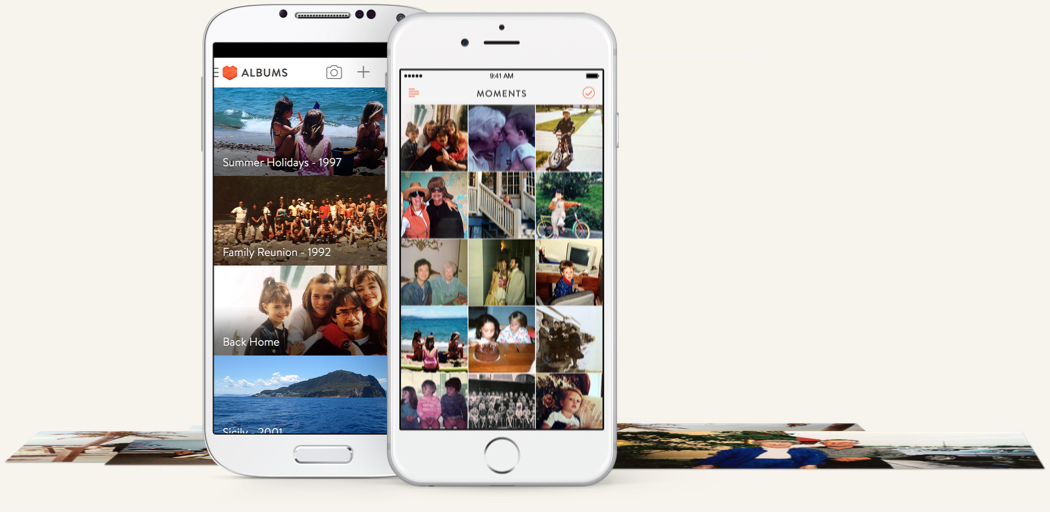
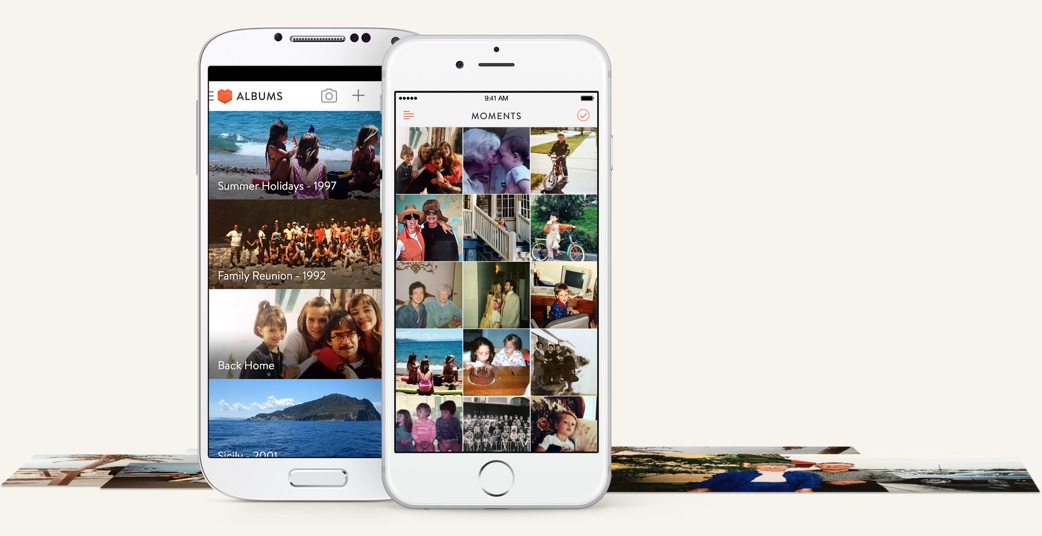
Adds new product asset and repositions slightly.

Changed region(s): [[0.0, 0.0, 1.0, 0.9669]]

diff --git a/app/styles/_homepage.scss b/app/styles/_homepage.scss
@@ -141,7 +141,7 @@ background-size: auto 576px;
     height: 90%;
     left: 50%;
     width: 50%;
-    top: -15px;
+    top: -6px;
     display: table;
     z-index: 1;
   }
@@ -173,6 +173,7 @@ background-size: auto 576px;
   right: 0;
   left: 0;
   bottom: 0;
+  max-width: 1050px;
   transform: translateX(-93px);
 
   @media #{$tablet-size} {
